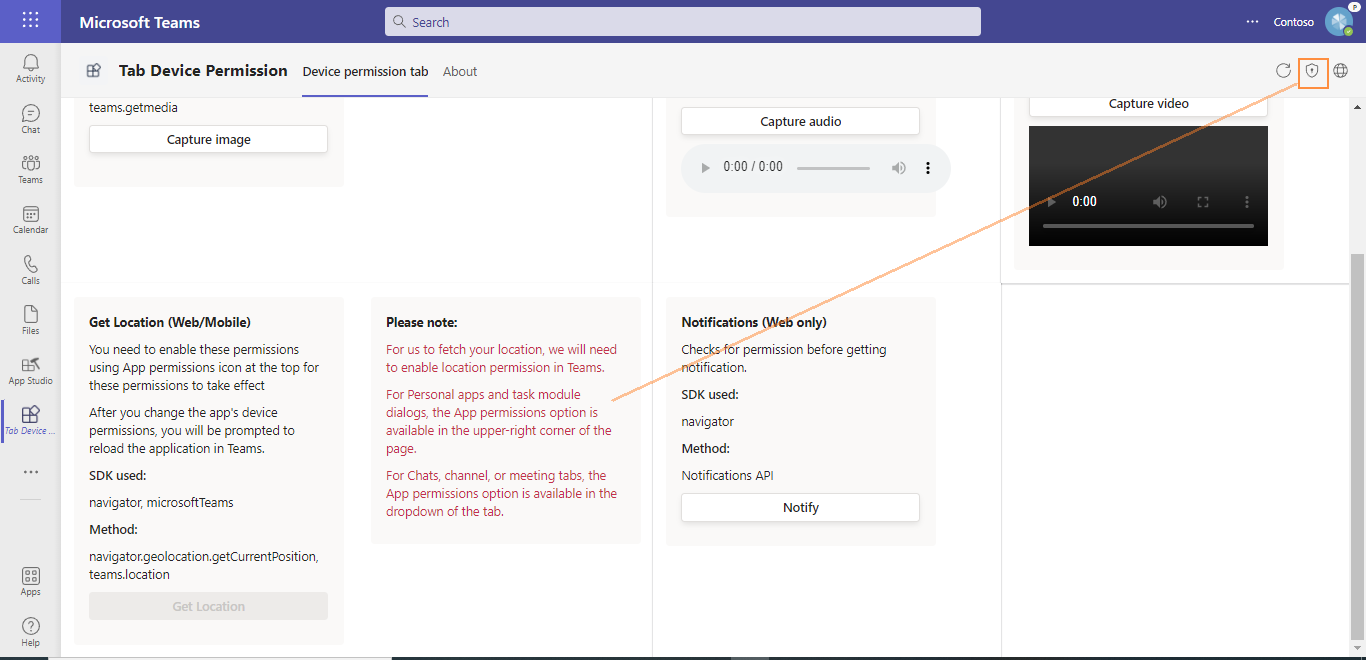
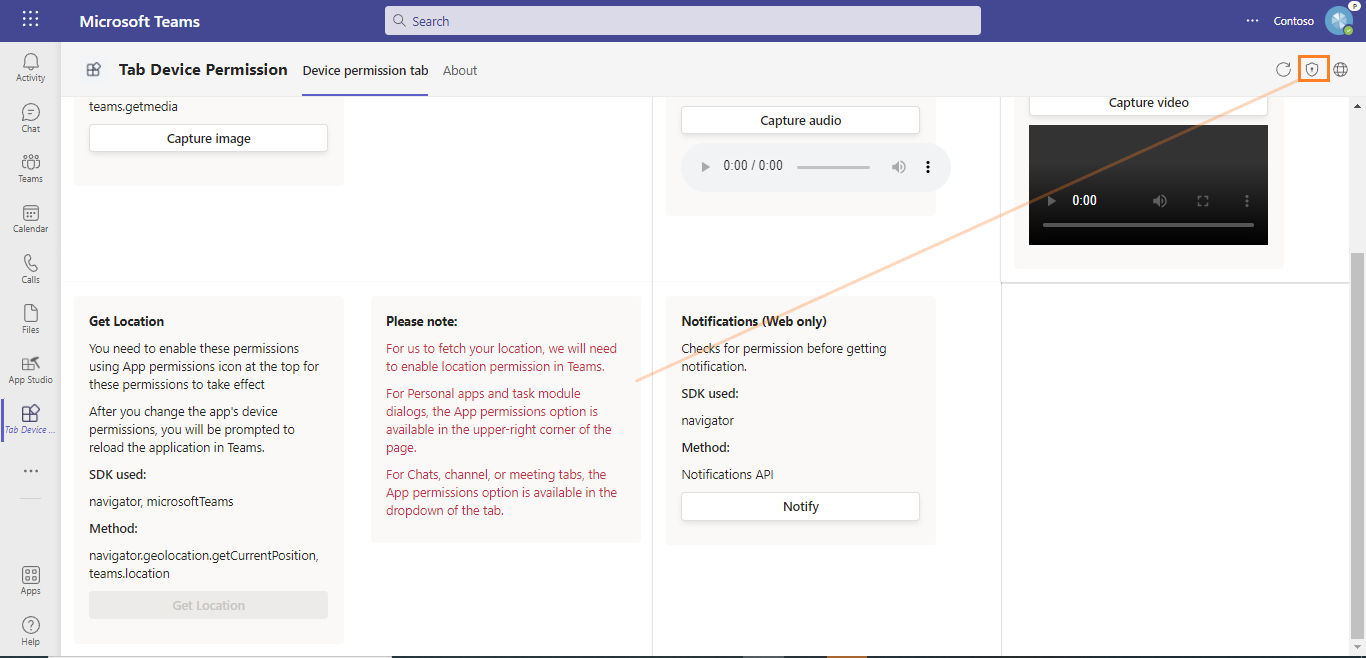
image changes

diff --git a/samples/tab-device-permissions/nodejs/src/components/GetLocationDesktop.tsx b/samples/tab-device-permissions/nodejs/src/components/GetLocationDesktop.tsx
@@ -46,7 +46,7 @@ const GetLocationDesktop = () => {
             <Flex gap="gap.large">
                 <Card>
                     <CardHeader>
-                        <Text content="Get Location (Web/Mobile)" weight="bold" />
+                        <Text content="Get Location" weight="bold" />
                     </CardHeader>
                     <CardBody>
                         <Flex column gap="gap.small">

diff --git a/samples/tab-device-permissions/nodejs/src/components/CaptureImageDesktop.tsx b/samples/tab-device-permissions/nodejs/src/components/CaptureImageDesktop.tsx
@@ -52,7 +52,7 @@ const CaptureImageDesktop = () => {
             {/* Card for capturing single image */}
             <Card>
                 <CardHeader>
-                    <Text content="Capture Image (Web/Mobile)" weight="bold" />
+                    <Text content="Capture Image" weight="bold" />
                 </CardHeader>
                 <CardBody>
                     <Flex column gap="gap.small">

diff --git a/samples/tab-device-permissions/nodejs/src/components/CaptureAudioDesktop.tsx b/samples/tab-device-permissions/nodejs/src/components/CaptureAudioDesktop.tsx
@@ -31,7 +31,7 @@ const CaptureAudioDesktop = () => {
             {/* Card for showing Audio */}
             <Card>
                 <CardHeader>
-                    <Text content="Capture Audio (Web/Mobile)" weight="bold" />
+                    <Text content="Capture Audio" weight="bold" />
                 </CardHeader>
                 <CardBody>
                     <Flex column gap="gap.small">

diff --git a/samples/tab-device-permissions/nodejs/src/components/CaptureImage.tsx b/samples/tab-device-permissions/nodejs/src/components/CaptureImage.tsx
@@ -74,7 +74,7 @@ const CaptureImage = () => {
       {/* Card for capturing single image */}
       <Card>
         <CardHeader>
-          <Text content="Capture Image (Web/Mobile)" weight="bold" />
+          <Text content="Capture Image" weight="bold" />
         </CardHeader>
         <CardBody>
           <Flex column gap="gap.small">

diff --git a/samples/tab-device-permissions/nodejs/src/components/GetGeoLocation.tsx b/samples/tab-device-permissions/nodejs/src/components/GetGeoLocation.tsx
@@ -49,7 +49,7 @@ const GetGeoLocation = () => {
       {/* Card for Get/Show Geo-Location */}
       <Card>
         <CardHeader>
-          <Text content="Get Location (Web/Mobile)" weight="bold" />
+          <Text content="Get Location" weight="bold" />
         </CardHeader>
         <CardBody>
           <Flex column gap="gap.small">

diff --git a/samples/tab-device-permissions/nodejs/src/components/CaptureAudio.tsx b/samples/tab-device-permissions/nodejs/src/components/CaptureAudio.tsx
@@ -43,7 +43,7 @@ const CaptureAudio = () => {
       {/* Card for showing Video/Audio */}
       <Card>
         <CardHeader>
-          <Text content="Media (Web/Mobile)" weight="bold" />
+          <Text content="Media" weight="bold" />
         </CardHeader>
         <CardBody>
           <Flex column gap="gap.small">
